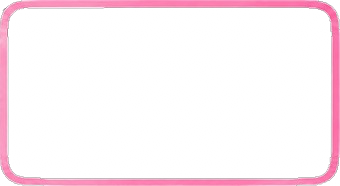
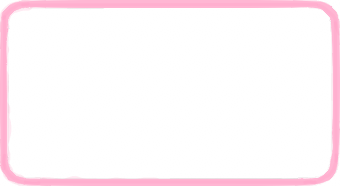
bg fix1

Changed region(s): [[0.0, 0.0, 1.0, 1.0]]

diff --git a/views/menu.html b/views/menu.html
@@ -2,12 +2,10 @@
   <div class="top-section">
     <div class="channels">
 
-      <!-- ── COL 1 ── -->
+      
       <div class="col first">
 
-        <!-- Channel 1: Demo Reel (YouTube) -->
-        <!-- TO ADD YOUR IMAGE: replace data-img with path to your thumbnail, e.g. assets/images/demo-reel-thumb.jpg -->
-        <!-- TO ADD YOUR VIDEO: replace data-url with your YouTube embed URL, e.g. https://www.youtube.com/embed/VIDEO_ID -->
+        
         <div class="channel-icon occupied">
           <img src="assets/images/miichannel.jpg">
           <div class="hover" id="1"
@@ -30,7 +28,7 @@
           </div>
         </div>
 
-        <!-- Channel 2: For My Love album (YouTube) -->
+        
         <div class="channel-icon occupied">
           <img src="assets/images/miichannel.jpg">
           <div class="hover" id="2"
@@ -46,10 +44,10 @@
         <div class="channel-icon blank"><div class="hover" id="3"></div></div>
       </div>
 
-      <!-- ── COL 2 ── -->
+      
       <div class="col">
 
-        <!-- Channel 4: Retro Repair game scoring (YouTube) -->
+        
         <div class="channel-icon occupied">
           <img src="assets/images/miichannel.jpg">
           <div class="hover" id="4"
@@ -62,7 +60,7 @@
           </div>
         </div>
 
-        <!-- Channel 5: T3 Rivals minigame (route) -->
+     
         <div class="channel-icon occupied">
           <img src="assets/images/miichannel.jpg">
           <div class="hover" id="5"
@@ -78,10 +76,10 @@
         <div class="channel-icon blank"><div class="hover" id="6"></div></div>
       </div>
 
-      <!-- ── COL 3 ── -->
+      
       <div class="col">
 
-        <!-- Channel 7: Last of Us sound rework (YouTube) -->
+        
         <div class="channel-icon occupied">
           <img src="assets/images/miichannel.jpg">
           <div class="hover" id="7"
@@ -98,10 +96,10 @@
         <div class="channel-icon blank"><div class="hover" id="9"></div></div>
       </div>
 
-      <!-- ── COL 4 ── -->
+      
       <div class="col">
 
-        <!-- Channel 10: Armored Core Ice Worm rework (YouTube) -->
+        
         <div class="channel-icon occupied">
           <img src="assets/images/miichannel.jpg">
           <div class="hover" id="10"
@@ -139,7 +137,7 @@
 </div>
 
 <div class="splash-screen">
-  <!-- Channel title shown in splash -->
+  
   <div class="splash-title"></div>
 </div>
 
@@ -150,7 +148,7 @@
   </div>
 </div>
 
-<!-- Video modal overlay — hidden until Start is clicked on a youtube channel -->
+
 <div class="video-modal" id="videoModal">
   <div class="video-modal-inner">
     <button class="video-modal-close" onclick="closeVideoModal()">✕ Close</button>

diff --git a/index.html b/index.html
@@ -20,7 +20,7 @@
     <div class="black"></div>
 
     <div class="sfx">
-      <!-- <iframe src="assets/audio/bgmusic.html" allow="autoplay" style="display:none" id="music"></iframe> -->
+      
       <audio id="startup" src="assets/audio/startup.mp3" controls></audio>
       <audio id="bg-music" src="assets/audio/bg-music.mp3" loop controls></audio>
       <audio id="hover" src="assets/audio/button-hover.mp3"></audio>